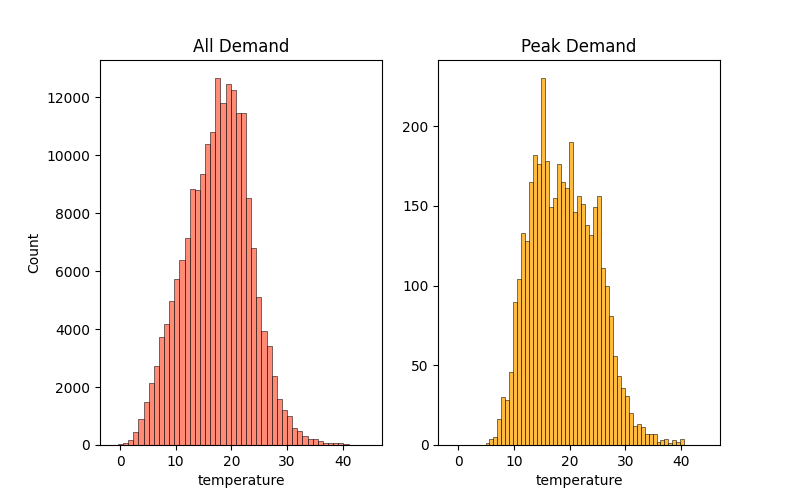
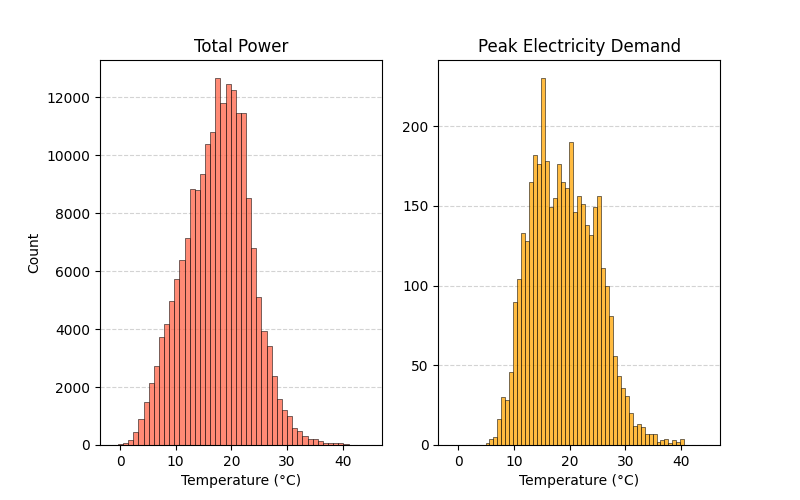
updated figure labels

diff --git a/python/eda.py b/python/eda.py
@@ -32,8 +32,8 @@ def corr_matrix (df, peak_df, img_folder):
     fig, axs = plt.subplots(1, 2, figsize=(11,6))
     sns.heatmap(cm, annot=True, cmap='coolwarm', vmin=-1, vmax=1, ax=axs[0], cbar=False, xticklabels=var_labels, yticklabels=var_labels)
     sns.heatmap(peak_cm, annot=True, cmap='coolwarm', vmin=-1, vmax=1, ax=axs[1], cbar=False, xticklabels=var_labels)
-    axs[0].set_title('All Demand')
-    axs[1].set_title('Peak Demand')
+    axs[0].set_title('Electricity Demand')
+    axs[1].set_title('Peak Electricity Demand')
     axs[1].tick_params(axis='y', labelleft=False)
     axs[0].tick_params(axis='y', rotation=0)
     plt.suptitle('Correlation Between Variables')
@@ -58,8 +58,8 @@ def var_distributions(df, peak_df, img_folder):
         axs[0][col_idx].set_title(col)
         axs[0][col_idx].set_ylabel('')
         axs[1][col_idx].set_ylabel('')
-    fig.text(0.01, 0.68, 'All Demand', va='center', rotation=90, fontsize=12)
-    fig.text(0.01, 0.23, 'Peak Demand', va='center', rotation=90, fontsize=12)
+    fig.text(0.01, 0.68, 'Electricity Demand', va='center', rotation=90, fontsize=12)
+    fig.text(0.01, 0.23, 'Peak Electricity Demand', va='center', rotation=90, fontsize=12)
     plt.suptitle('Variable Distributions')
     plt.tight_layout()
     fig.subplots_adjust(left=0.06) 
@@ -82,7 +82,7 @@ def var_distributions(df, peak_df, img_folder):
         axs[0].set_xlabel(total_labels[col])
         axs[1].set_xlabel(total_labels[col])
         axs[0].set_title('Total Power')
-        axs[1].set_title('Peak Daily Power')
+        axs[1].set_title('Peak Electricity Demand')
         img_name = col + '_histograms'
         plt.savefig(img_folder / img_name)
         plt.close()
@@ -98,8 +98,8 @@ def var_distributions(df, peak_df, img_folder):
         axs[1].tick_params(axis='y', which='both', left=False, labelleft=False)
         axs[0].set_ylabel(total_labels[col])
         axs[1].set_ylabel('')
-        axs[0].set_title('Total Power')
-        axs[1].set_title('Peak Daily Power')
+        axs[0].set_title('Electricity Demand')
+        axs[1].set_title('Peak Electricity Demand')
         img_name = col + '_boxplot'
         plt.savefig(img_folder / img_name)
         plt.close()
@@ -109,7 +109,7 @@ def var_distributions(df, peak_df, img_folder):
     sns.histplot(peak_df, x='hour_float', bins=48, color=vc['peak'])
     plt.xticks(range(0, 24, 1))  # show every 2 hours
     plt.xlabel('Hour')
-    plt.title('Time Frequency of Peak Daily Demand')
+    plt.title('Time Frequency of Peak Electricity Demand')
     plt.savefig(img_folder / 'peak_demand_time_histogram')
     plt.close()
 
@@ -123,7 +123,7 @@ def demand_time(df, img_folder):
     sns.lineplot(df, x='date', y='total_demand', lw=1, errorbar=None, color='palevioletred')
     for l in jan_1:
         plt.axvline(x=l, color='lightgrey', linestyle='--', lw=0.5, zorder=1)
-    plt.title('Peak Demand')
+    plt.title('Peak Electricity Demand')
     plt.savefig(img_folder / 'peak_demand_time')
     plt.close()
 
@@ -180,8 +180,8 @@ def daily_stats(df, peak_df, img_folder):
     col_list = df.columns.tolist()[1:6]
     for col in col_list:
         fig, ax = plt.subplots(2, 1, figsize=(8,6))
-        avg_stats_across_years(df, col, ax[0], 'All Demand')
-        avg_stats_across_years(peak_df, col, ax[1], 'Peak Demand', True)
+        avg_stats_across_years(df, col, ax[0], 'Electricity Demand')
+        avg_stats_across_years(peak_df, col, ax[1], 'Peak Electricity Demand', True)
 
         handles, labels = ax[0].get_legend_handles_labels()
         for axs in ax.flat:
@@ -252,18 +252,18 @@ forecast_demand_df = pd.read_csv(data_folder / 'peak_forecasts.csv')
 # explore relationships between variables
 scatterplot_matrix(demand_df, img_folder, 'demand_var_comparison', vc['all'])
 scatterplot_matrix(peak_demand_df, img_folder, 'peak_demand_var_comparison', vc['peak'])
-#corr_matrix (demand_df, peak_demand_df, img_folder)
+corr_matrix (demand_df, peak_demand_df, img_folder)
 
 # explore variable distributions
-#var_distributions(demand_df, peak_demand_df, img_folder)
+var_distributions(demand_df, peak_demand_df, img_folder)
 
 # explore temporal distributions
-#demand_time(peak_demand_df, img_folder)
-#demand_time_all(demand_df, peak_demand_df, img_folder)
-#daily_stats(demand_df, peak_demand_df, img_folder)
+demand_time(peak_demand_df, img_folder)
+demand_time_all(demand_df, peak_demand_df, img_folder)
+daily_stats(demand_df, peak_demand_df, img_folder)
 
 # plot AEMO forecast distributions
-#aemo_forecast(forecast_demand_df, img_folder)
+aemo_forecast(forecast_demand_df, img_folder)
 
 
 

diff --git a/python/final_test_lstm_analysis.py b/python/final_test_lstm_analysis.py
@@ -14,8 +14,8 @@ import matplotlib.dates as mdates
 
 def process_dfs(df, aemo_df, df_format='%Y-%m-%d'):
     df['date'] = pd.to_datetime(df['date'], format=df_format)
-    df['true_peak_time'] = pd.to_datetime(df['true_peak_time'], format='%H:%M:%S')
-    df['pred_peak_time'] = pd.to_datetime(df['pred_peak_time'], format='%H:%M:%S')
+    df['true_peak_time'] = pd.to_datetime(df['true_peak_time'])
+    df['pred_peak_time'] = pd.to_datetime(df['pred_peak_time'])
 
     aemo_df['datetime'] = pd.to_datetime(aemo_df['datetime'])
     aemo_df['time'] = aemo_df['datetime'].dt.time
@@ -45,7 +45,7 @@ def plot_results(df, res_path, model_name):
     axs[1].grid(axis='x', linestyle='--', color='lightgrey', zorder=1, which='both')
     axs[0].set_xlabel('')
     axs[1].set_xlabel('Date')
-    axs[0].set_ylabel('Peak Power (MW)')
+    axs[0].set_ylabel('Peak Electricity Demand (MW)')
     axs[1].set_ylabel('Residuals (MW)')
     img_name = 'pred_vs_actual_' + model_name
     plt.savefig(res_path / img_name)
@@ -85,9 +85,9 @@ def plot_resids(df, res_path, model_name):
     sns.scatterplot(df_diff, x='date', y='differences', color='sienna', ax=axs[1], alpha=0.7)
 
     df = df.rename(columns={'pred_resid': 'LSTM', 'aemo_resid': 'AEMO'})
-    df = df.melt(id_vars='date', value_vars=['LSTM', 'AEMO'], var_name='Prediction', value_name='Peak Power')
+    df = df.melt(id_vars='date', value_vars=['LSTM', 'AEMO'], var_name='Prediction', value_name='Peak Electricity Demand')
     pred_colors = {'LSTM':'brown', 'AEMO':'salmon'}
-    sns.lineplot(df, x='date', y='Peak Power', hue='Prediction', palette=pred_colors, ax=axs[0])
+    sns.lineplot(df, x='date', y='Peak Electricity Demand', hue='Prediction', palette=pred_colors, ax=axs[0])
     axs[0].axhline(0, color='grey', linestyle=':', zorder=1) 
     axs[1].axhline(0, color='grey', linestyle=':', zorder=1) 
     axs[0].set_ylabel('Residuals (MW)')
@@ -115,33 +115,13 @@ csv_path = root_folder / 'Results' / 'LSTM' / 'Final' / 'Test'
 save_path = csv_path
 
 
-df_all = pd.read_csv(csv_path / 'all_final.csv')
+# best final model
+csv_path = root_folder / 'Results' / 'LSTM' / 'Final' / 'Var Dropout'
+save_path = csv_path
 
+df = pd.read_csv(csv_path / 'dropped_8_test.csv')
 forecast_demand_df = pd.read_csv(data_folder / 'peak_forecasts.csv')
 
-df_all, resid_df = process_dfs(df_all, forecast_demand_df)
-
-plot_results(df_all, save_path, 'final')
-
-plot_resids(resid_df, save_path, 'final')
-
-"""
-
-csv_path = root_folder / 'Results' / 'LSTM' / 'Final'
-save_path = root_folder / 'Results' / 'LSTM' / 'Final' / 'HP Tune'
-save_path.mkdir(parents=True,exist_ok=True)
-
-
-df_m4 = pd.read_csv(csv_path / 'm4.csv')
-df_m2 = pd.read_csv(csv_path / 'm2.csv')
-forecast_demand_df = pd.read_csv(data_folder / 'peak_forecasts.csv')
-
-
-df_m4, resid_df_4 = process_dfs(df_m4, forecast_demand_df)
-plot_results(df_m4, save_path, 'm4')
-plot_resids(resid_df_4, save_path, 'm4')
-
-
-df_m2, resid_df_2 = process_dfs(df_m2, forecast_demand_df)
-plot_results(df_m2, save_path, 'm2')
-plot_resids(resid_df_2, save_path, 'm2')"""
+df, resid_df = process_dfs(df, forecast_demand_df)
+plot_results(df, save_path, '8_test')
+plot_resids(resid_df, save_path, '8_test')
